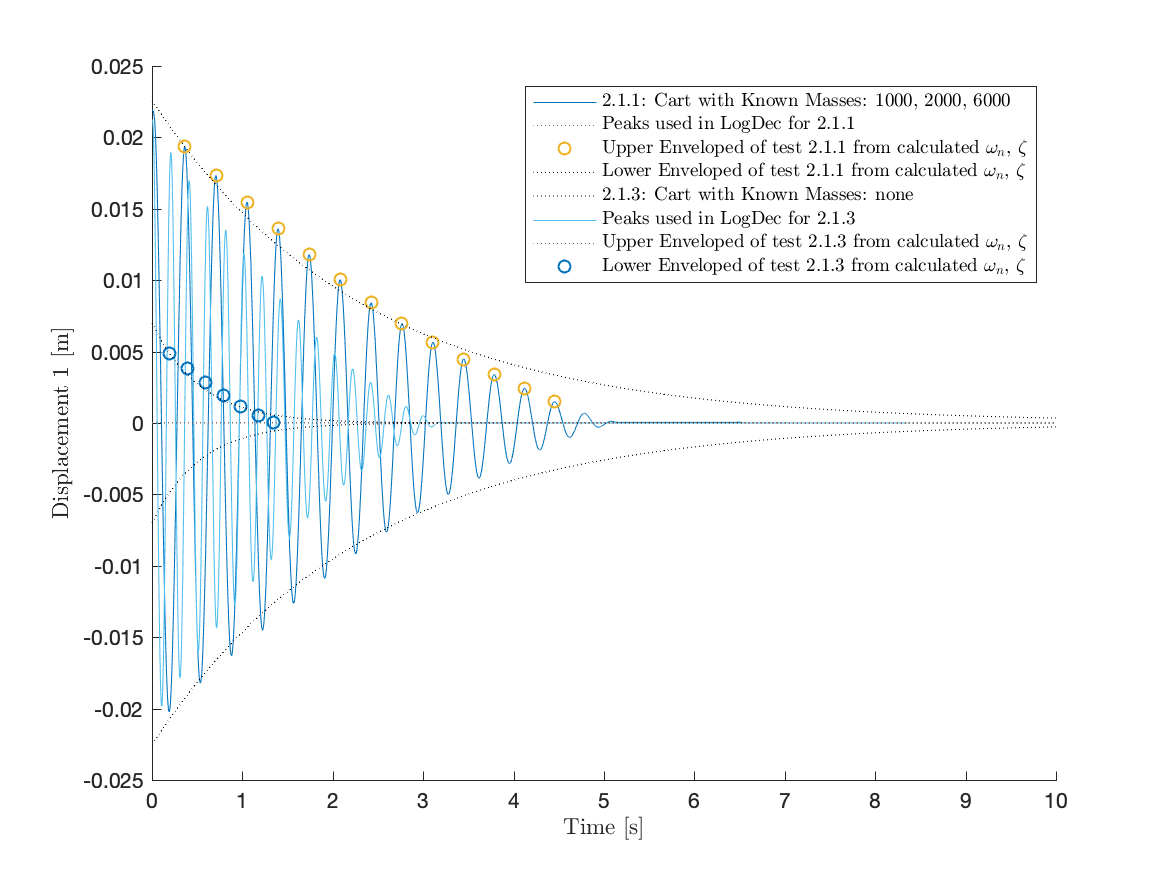
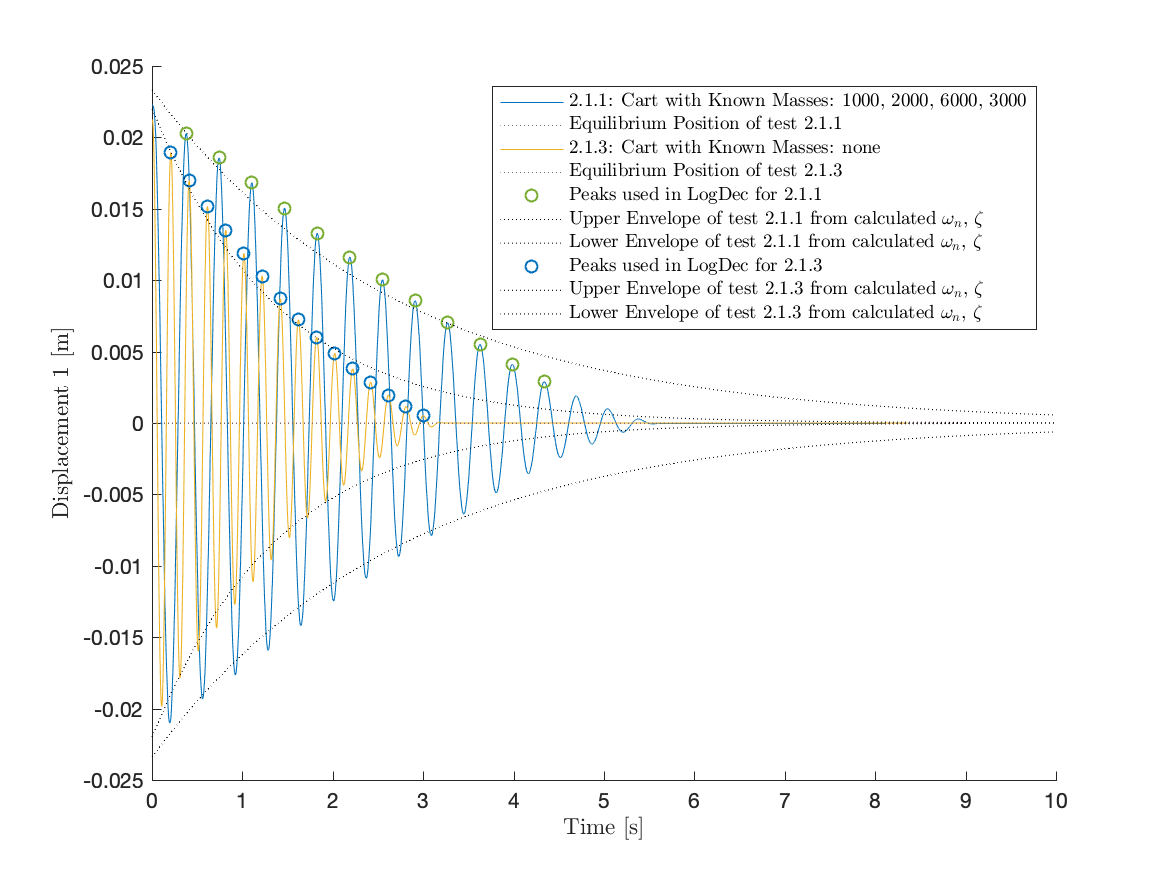
bugfix

Changed region(s): [[0.1234, 0.1234, 0.8021, 0.8331], [0.4319, 0.0926, 0.8946, 0.3703], [0.4319, 0.216, 0.4627, 0.2469]]

diff --git a/Lab 1/multi_logdec.m b/Lab 1/multi_logdec.m
@@ -29,7 +29,7 @@ function [wn, z] = multi_logdec(root, varargin)
     %% LOAD AND FORMAT DATA:
     Ts = {}; % Cell Array of ETables for Each Data Collection
     for i = 1:numel(testName)
-        test = testName{i};
+        test = testID{i};
         try
             % Load cached file if there is one
             load(char(root+test+".mat"), 'T');
@@ -83,6 +83,18 @@ function [wn, z] = multi_logdec(root, varargin)
         Ts{i}.plot('t', 'x1', Ts{i}.t >= t_start(i), '-', -t_start(i));
         % Also plot the equilibrium positions:
         ETable.hline(Ts{i}.x1(end), '', 'left', 'bottom');
+        
+        % Create the Legend:
+        if isnumeric(testMasses{i})
+            massesList{i} = sprintf('%.0f, ' , testMasses{i}*1000);
+            massesList{i} = massesList{i}(1:end-2);
+        else
+            massesList{i} = testMasses{i};
+        end
+        leg{2*(i-1) + 1} = char(testID{i}+": Cart with Known Masses: "+massesList{i});
+        leg{2*(i-1) + 2} = char("Equilibrium Position of test "+testID{i});
+    end
+    for i = 1:numel(Ts)
         hold on
         % Highlight peaks used on the plot:
         scatter(peaks{i}.X-t_start(i), peaks{i}.Y);
@@ -93,16 +105,9 @@ function [wn, z] = multi_logdec(root, varargin)
         hold off
         
         % Create the Legend:
-        if isnumeric(testMasses{i})
-            massesList{i} = sprintf('%.0f, ' , testMasses{i}*1000);
-            massesList{i} = massesList{i}(1:end-2);
-        else
-            massesList{i} = testMasses{i};
-        end
-        leg{(i-1)*4 + 1} = char(testID{i}+": Cart with Known Masses: "+massesList{i});
-        leg{(i-1)*4 + 2} = char("Peaks used in LogDec for "+testID{i});
-        leg{(i-1)*4 + 3} = char("Upper Enveloped of test "+testID{i}+" from calculated $\omega_n$, $\zeta$");
-        leg{(i-1)*4 + 4} = char("Lower Enveloped of test "+testID{i}+" from calculated $\omega_n$, $\zeta$");
+        leg{2*n + (i-1)*3 + 1} = char("Peaks used in LogDec for "+testID{i});
+        leg{2*n + (i-1)*3 + 2} = char("Upper Envelope of test "+testID{i}+" from calculated $\omega_n$, $\zeta$");
+        leg{2*n + (i-1)*3 + 3} = char("Lower Envelope of test "+testID{i}+" from calculated $\omega_n$, $\zeta$");
     end
     legend(leg, 'Interpreter', 'latex');
 end

diff --git a/Lab 1/rect_q3.m b/Lab 1/rect_q3.m
@@ -1,15 +1,38 @@
-% Recover Cart Mass:
-function rect_q3()
+% Recover all system properties possible from two subsequent trials of a
+% cart in free vibration with different known masses attached to it as
+% required by problem Q2 in the rectilinear section.
+function rect_q2()
     % PRIOR KNOWNS:
     % Masses of Blocks [kg]:
-    m1 = 490.5e-3; 
-    m2 = 485.5e-3;
-    m3 = 240.5e-3;
-    m6 = 490.5e-3;
-    M = 0.7682; % Empirically Determined Cart Mass
+    mb1 = 490.5e-3; 
+    mb2 = 485.5e-3;
+    mb3 = 240.5e-3;
+    mb6 = 490.5e-3;
+    
+    Mc = 
+    
+    % Known Mass added to Each Cart [kg]:
+    m1 = mb1 + mb2 + mb6; % Known mass added to cart in experiment 1
+    m2 = 0; % Known mass added to cart in experiment 2
     
     root = "RectData/exp2/car1/";
-    % NOT GOING TO WORK THIS WAY:
-    exp = cart_logdec_solver(root, "2.1.1", "test1", [m1,m2,m6], "2.1.1", "test2", [m1,m2,m6,m3])
-    saveas(gcf, 'rect_q3.png', 'png');
+    [wn, z] = multi_logdec(root, "2.1.1", "test1", [1,2,6], "2.1.3", "test2", [1,2,6]); % Returns Experimental Results
+    saveas(gcf, 'rect_q2.png', 'png');
+    
+    % Reconstruct System Parameters to Verify Accuracy:
+    % (assuming mass has already been experimentally verified).
+    res = struct(); % Results
+    res.mb = (m2*wn(2)^2 - m1*wn(1)^2) / (wn(1)^2 - wn(2)^2); % Remaining Unknown mass
+    res.k1 = (res.M + m1)*wn(1)^2;
+    res.k2 = (res.M + m2)*wn(2)^2;
+    res.c1 = 2*z(1)*wn(1)*(res.M+m1);
+    res.c2 = 2*z(2)*wn(2)*(res.M+m2);
+    
+    % Display Results for Evaluation:
+    disp("Parameters Recovered from Data (in SI Base Units):");
+    disp(res);
+    disp("Damping Ratio Percent Difference:");
+    disp( 100 * abs(diff([z(1) z(2)])) / mean([z(1) z(2)]) );
+    disp("Damping Coefficient Percent Difference:");
+    disp( 100 * abs(diff([res.c1 res.c2])) / mean([res.c1 res.c2]) );
 end

diff --git a/Lab 1/rect_q2.m b/Lab 1/rect_q2.m
@@ -4,10 +4,14 @@
 function rect_q2()
     % PRIOR KNOWNS:
     % Masses of Blocks [kg]:
-    m1 = 490.5e-3; 
-    m2 = 485.5e-3;
-    m3 = 240.5e-3;
-    m6 = 490.5e-3;
+    mb1 = 490.5e-3; 
+    mb2 = 485.5e-3;
+    mb3 = 240.5e-3;
+    mb6 = 490.5e-3;
+    
+    % Known Mass added to Each Cart [kg]:
+    m1 = mb1 + mb2 + mb6; % Known mass added to cart in experiment 1
+    m2 = 0; % Known mass added to cart in experiment 2
     
     root = "RectData/exp2/car1/";
     [wn, z] = multi_logdec(root, "2.1.1", "test1", [1,2,6], "2.1.3", "test3", "none"); % Returns Experimental Results
@@ -15,19 +19,19 @@ function rect_q2()
     
     % Reconstruct System Parameters to Verify Accuracy:
     % (assuming mass has already been experimentally verified).
-    expres = struct(); % Experimentally Recovered Parameters
-    expres.M = (m2*wn2^2 - m1*wn1^2) / (wn1^2 - wn2^2); % Remaining Unknown mass
-    expres.k1 = (expres.M + m1)*wn1^2;
-    expres.k2 = (expres.M + m2)*wn2^2;
-    expres.c1 = 2*z1*wn1*(expres.M+m1);
-    expres.c2 = 2*z2*wn2*(expres.M+m2);
+    res = struct(); % Results
+    res.M = (m2*wn(2)^2 - m1*wn(1)^2) / (wn(1)^2 - wn(2)^2); % Remaining Unknown mass
+    res.k1 = (res.M + m1)*wn(1)^2;
+    res.k2 = (res.M + m2)*wn(2)^2;
+    res.c1 = 2*z(1)*wn(1)*(res.M+m1);
+    res.c2 = 2*z(2)*wn(2)*(res.M+m2);
     
     % Display Results for Evaluation:
     disp("Parameters Recovered from Data (in SI Base Units):");
-    disp(expres);
+    disp(res);
     disp("Damping Ratio Percent Difference:");
-    disp( 100 * abs(diff([z1 z2])) / mean([z1 z2]) );
+    disp( 100 * abs(diff([z(1) z(2)])) / mean([z(1) z(2)]) );
     disp("Damping Coefficient Percent Difference:");
-    disp( 100 * abs(diff([expres.c1 expres.c2])) / mean([expres.c1 expres.c2]) );
+    disp( 100 * abs(diff([res.c1 res.c2])) / mean([res.c1 res.c2]) );
     
 end
